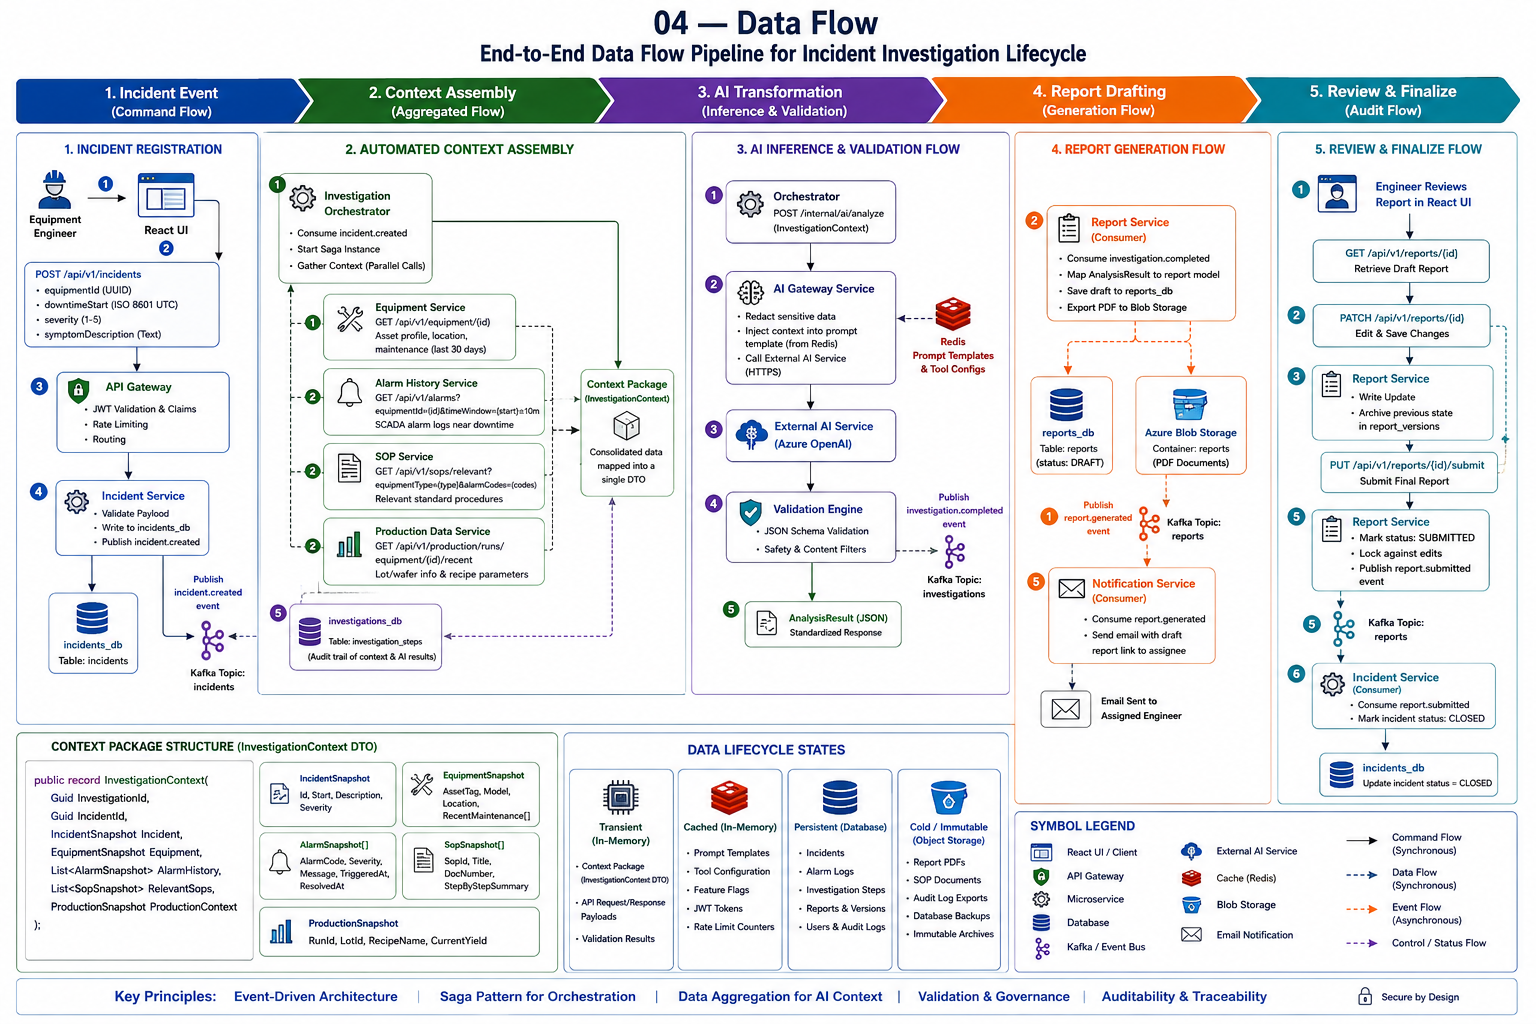
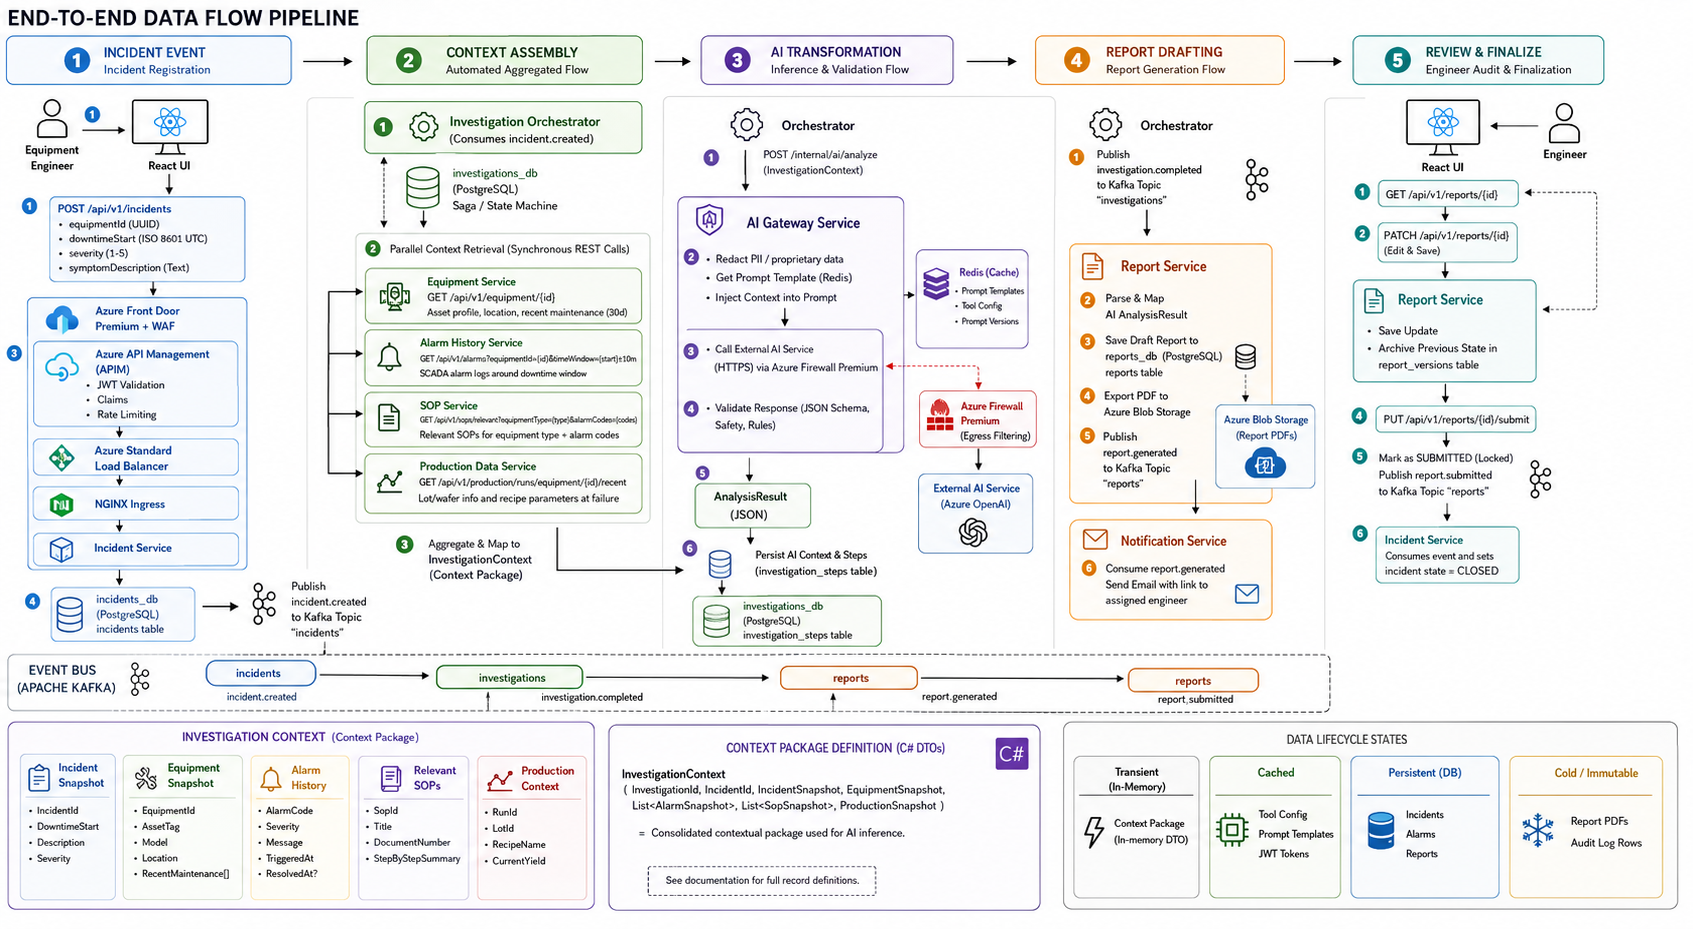
docs: Update  data flow documentation and architecture diagram

Changed region(s): [[0.0, 0.0, 1.0, 0.9989]]

diff --git a/docs/04-data-flow/README.md b/docs/04-data-flow/README.md
@@ -8,6 +8,10 @@ This document charts how data moves through the platform during an incident inve
 [1. Incident Event] ──► [2. Context Assembly] ──► [3. AI Transformation] ──► [4. Report Drafting] ──► [5. Review & Finalize]
 ```
 
+> [!TIP]
+> **Visual Reference**: If the diagram above does not render in your markdown viewer, you can view the exported image file directly:
+> ![Data Flow Pipeline](dataflow.png)
+
 ---
 
 ### Stage 1: Incident Registration (Command Flow)
@@ -17,7 +21,7 @@ This document charts how data moves through the platform during an incident inve
     *   `downtimeStart` (ISO 8601 UTC timestamp)
     *   `severity` (1-5 classification)
     *   `symptomDescription` (Text)
-3.  The request hits the **API Gateway**, which validates the JWT access token and claims, checks rate limits, and routes the request to the **Incident Service**.
+3.  The request hits **Azure Front Door Premium + WAF**, which filters the traffic and routes it to **Azure API Management (APIM)**. APIM validates the JWT access token/claims, checks rate limits, and forwards the request through the **Azure Standard Load Balancer** and **NGINX Ingress** to the **Incident Service**.
 4.  The **Incident Service** validates the payload, writes a record to `incidents_db` in the `incidents` table, and publishes an `incident.created` event to the `incidents` Kafka topic.
 
 ### Stage 2: Automated Context Assembly (Aggregated Flow)
@@ -34,7 +38,7 @@ This document charts how data moves through the platform during an incident inve
 2.  The **AI Gateway**:
     *   Redacts PII or proprietary parameters (e.g., specific operator names) based on rules.
     *   Injects the context into a pre-configured, versioned **Prompt Template** retrieved from Redis.
-    *   Executes an outbound HTTPS REST call to the **External AI Service** (e.g., Azure OpenAI).
+    *   Executes an outbound HTTPS REST call to the **External AI Service** (e.g., Azure OpenAI) routed through the **Azure Firewall Premium** for secure egress filtering.
 3.  Upon receiving the raw AI completion, the AI Gateway runs validation logic (JSON schema checks, safety evaluations).
 4.  If the response is valid, the AI Gateway returns a standardized JSON structure (`AnalysisResult`) to the orchestrator. If it fails validation, the gateway throws an error, prompting the orchestrator to trigger its retry strategy.
 5.  The orchestrator writes the finalized AI context package to `investigation_steps` for auditing.